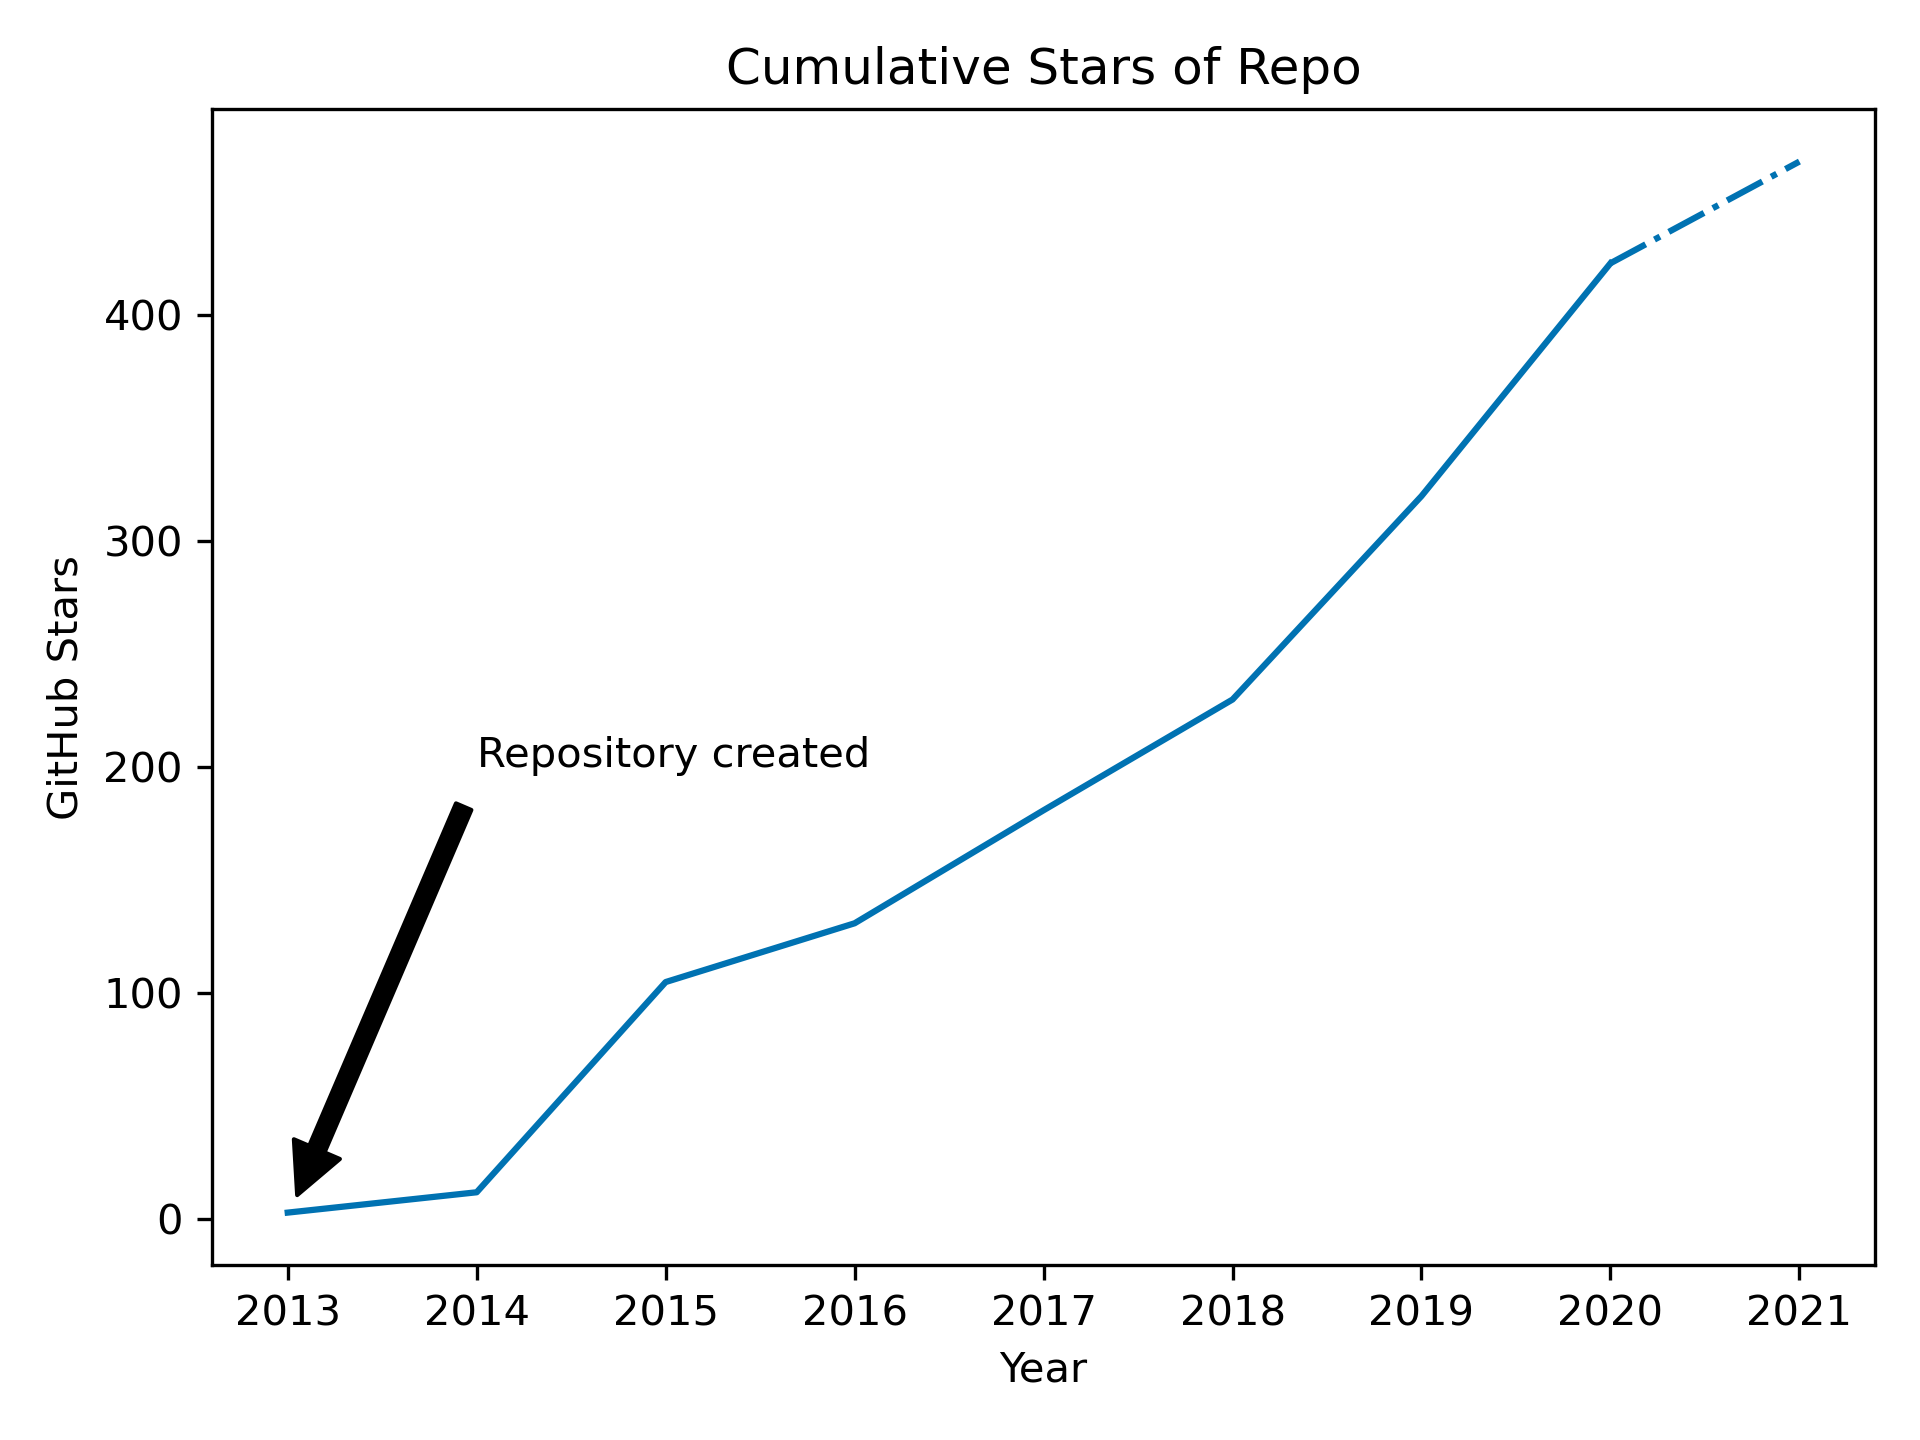
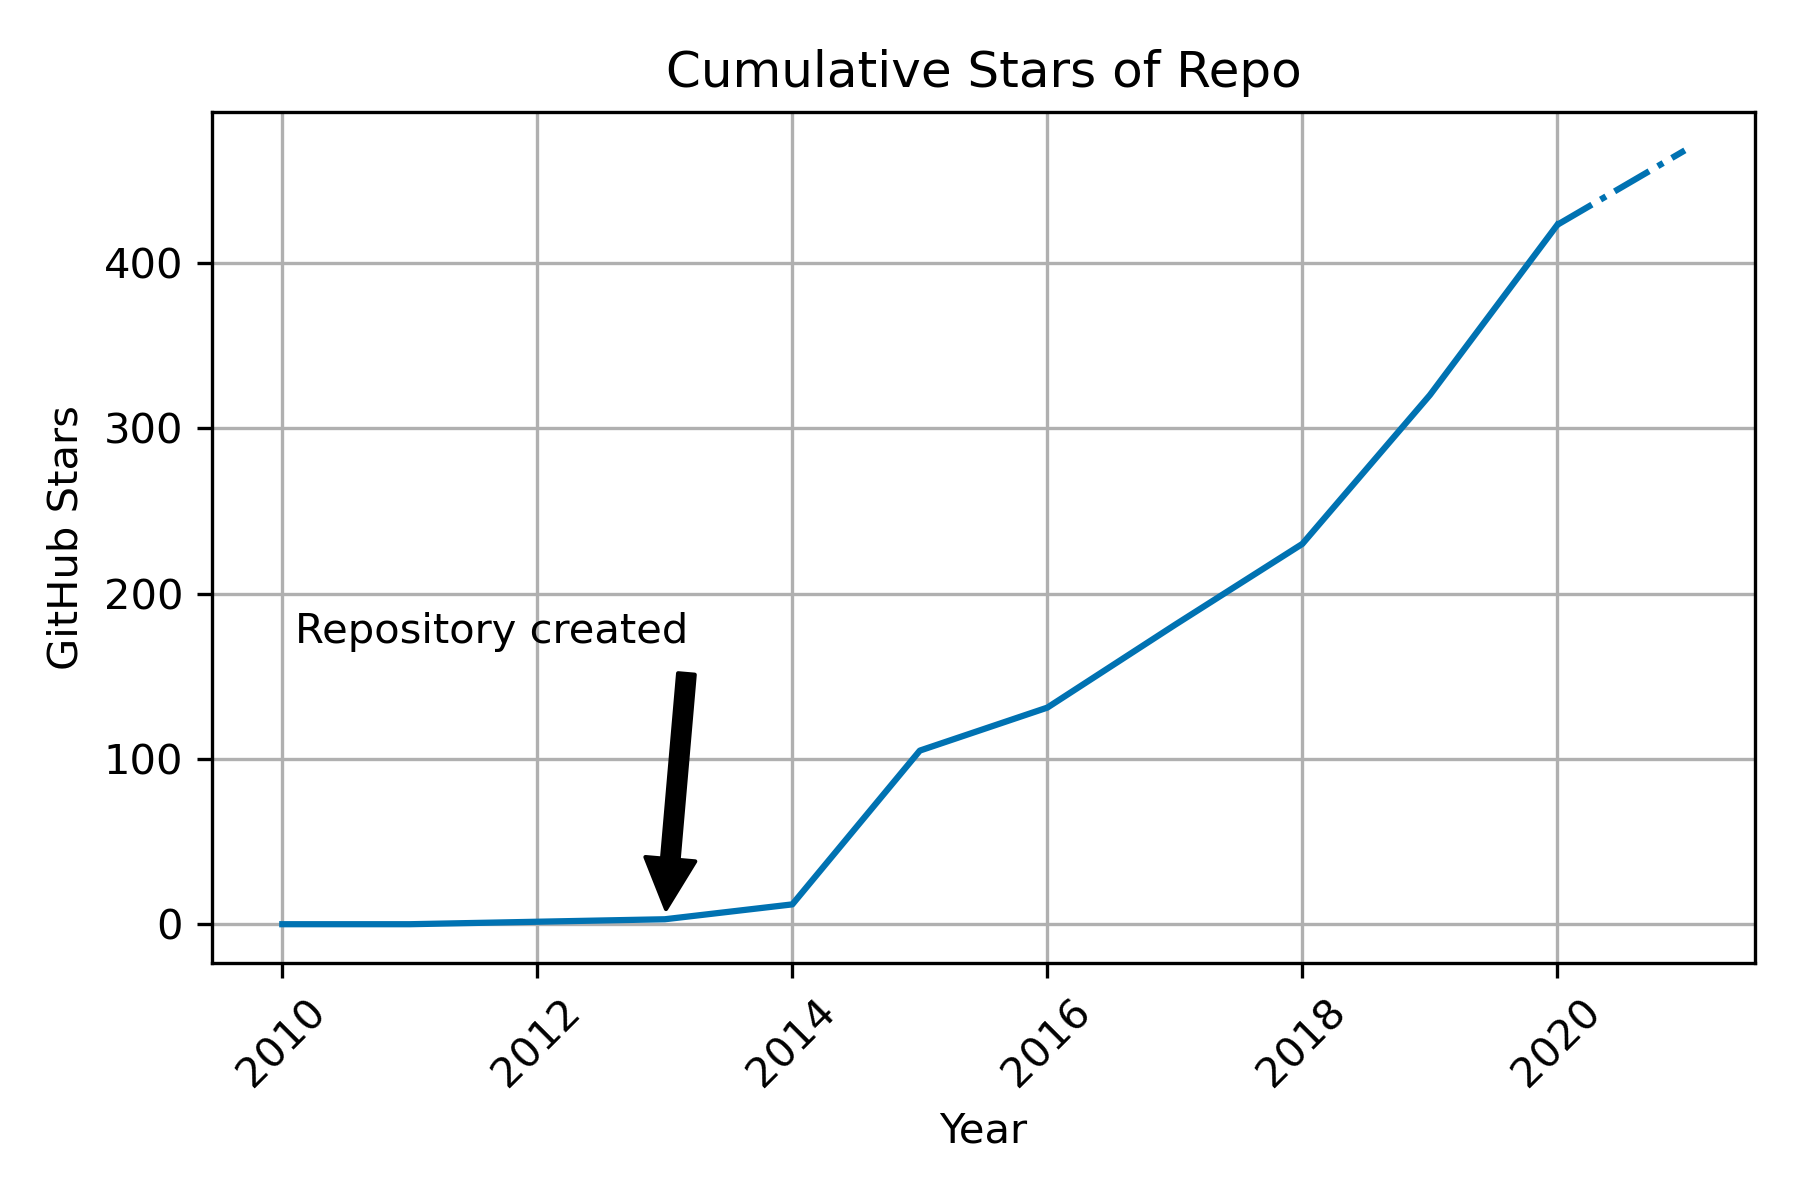
Add FoR spread and update plot style

diff --git a/src/2_github_interest.py b/src/2_github_interest.py
@@ -6,7 +6,7 @@ from common import *
 
 plt.style.use('seaborn-colorblind')
 
-star_increase = pd.read_csv(f"{DATA_DIR}/SALib_star_history.csv", 
+star_increase = pd.read_csv(f"{DATA_DIR}/2021-05-26_SALib_star_history.csv", 
                             index_col=1, 
                             names=["Repo", "Starred", "Count"],
                             parse_dates=True)
@@ -17,15 +17,20 @@ star_increase.index = map(int, star_increase.index)
 
 # Data is cumulative sum, so we get the max for each year
 yearly_count = star_increase.groupby(by=star_increase.index).max()
+yearly_count.drop("Repo", inplace=True, axis=1)
+
+yearly_count.loc[2010, "Count"] = 0.0
+yearly_count.loc[2011, "Count"] = 0.0
+yearly_count.sort_index(inplace=True)
 
 ax = yearly_count.loc[:2020].plot(legend=False)
-yearly_count.loc[2020:].plot(ax=ax, color="C0", ls="-.", legend=False)
+yearly_count.loc[2020:].plot(ax=ax, color="C0", ls="-.", legend=False, rot=45, grid=True)
 
 ax.set_ylabel("GitHub Stars")
 ax.set_xlabel("Year")
 ax.set_title("Cumulative Stars of Repo")
 
-ax.annotate("Repository created", xy=(2013, 1), xytext=(2014, 200),
+ax.annotate("Repository created", xy=(2013, 1), xytext=(2010.1, 170),
             arrowprops=dict(facecolor='black', shrink=0.05))
 
 plt.tight_layout()

diff --git a/src/1_citation_trend.py b/src/1_citation_trend.py
@@ -6,16 +6,18 @@ from common import *
 
 plt.style.use('seaborn-colorblind')
 
-yearly_citations = pd.read_csv(f"{DATA_DIR}/SALib_total_citations_year.csv", index_col=0)
+yearly_citations = pd.read_csv(f"{DATA_DIR}/2021-05-26_SALib_total_citations_year.csv", index_col=0)
 
 ax = yearly_citations.loc[:2020].plot(legend=False)
-yearly_citations.loc[2020:].plot(ax=ax, color="C0", ls="-.", legend=False)
+(yearly_citations.loc[2020:]
+                 .plot(ax=ax, color="C0", 
+                       ls="-.", legend=False, rot=45, grid=True))
 
 ax.set_ylabel("Citations")
 ax.set_xlabel("Year")
 ax.set_title("Citations of Herman & Usher (2017)")
 
-ax.annotate("Paper published", xy=(2017, 1), xytext=(2015, 100),
+ax.annotate("Paper published", xy=(2017, 1), xytext=(2015, 120),
             arrowprops=dict(facecolor='black', shrink=0.05))
 
 plt.tight_layout()

diff --git a/src/3_FoR_analysis.py b/src/3_FoR_analysis.py
@@ -1,0 +1,22 @@
+import pandas as pd
+import matplotlib.pyplot as plt
+
+from common import *
+
+
+plt.style.use('seaborn-colorblind')
+
+for_spread = pd.read_csv(f"{DATA_DIR}/2021-05-27_FoR_data.csv", 
+                            index_col=0)
+
+# Strip FoR ID number
+for_spread.index = for_spread.index.str[3:]
+
+ax = (for_spread.sort_values('Fields of Research', ascending=True)
+           .plot.barh(legend=False, grid=True, xlim=(0,100), logx=True))
+
+ax.set_title("Fields of Research")
+ax.set_xlabel("Number of Publications")
+
+plt.tight_layout()
+plt.savefig(f"{FIG_DIR}/SALib_FoR_spread.png", dpi=300)
